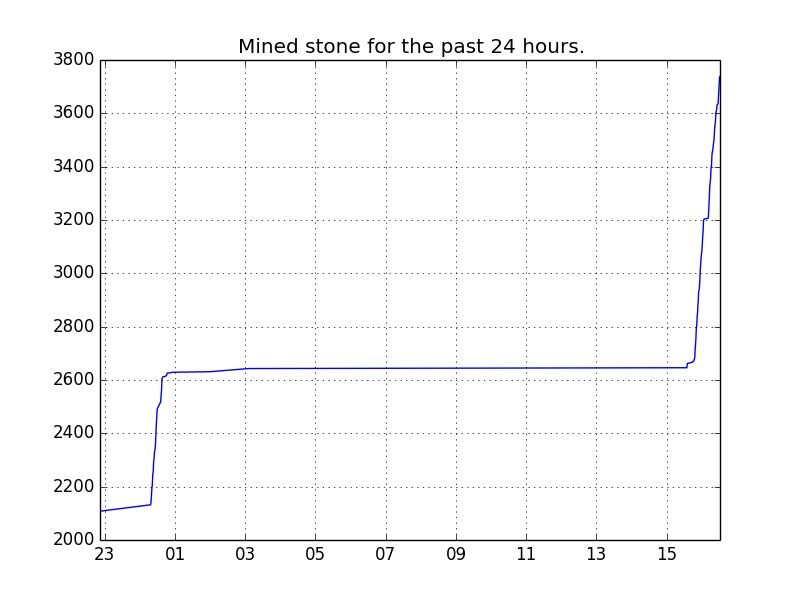
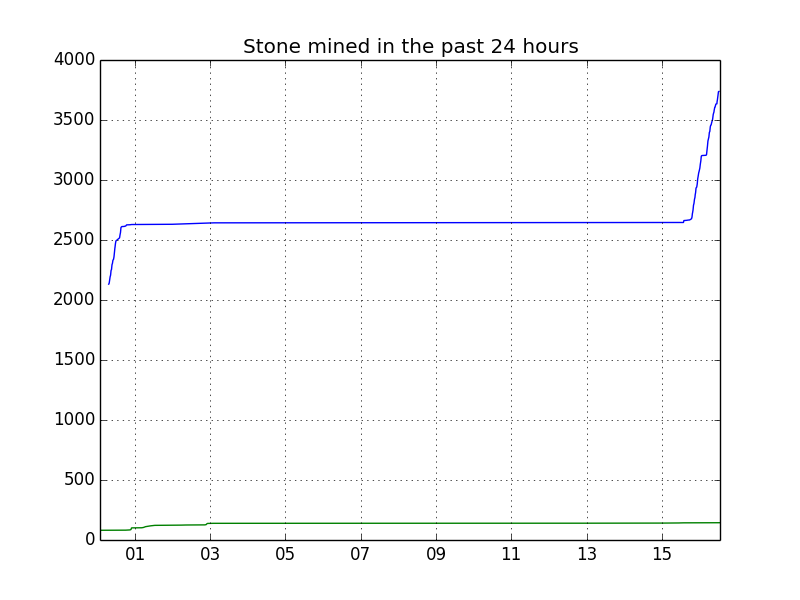
Made the graph script slightly more modular

diff --git a/contrib/postgres/graph.py b/contrib/postgres/graph.py
@@ -1,22 +1,34 @@
 #!/usr/bin/python
 
+import sys
 import psycopg2
 import matplotlib.pyplot as plt
 from matplotlib.dates import DateFormatter, MinuteLocator
-import config
+import argparse
 
-conn = psycopg2.connect(database="schoentoon")
+parser = argparse.ArgumentParser()
+parser.add_argument("-d", "--database", help="what database to connect to", type=str, required=True)
+parser.add_argument("-o", "--output", help="write to this file", type=str, required=True)
+parser.add_argument("blocks", nargs="*", help="Block ids", default=[], type=int)
+parser.add_argument("--title", type=str)
+args = parser.parse_args()
+
+conn = psycopg2.connect(database=args.database)
 cur = conn.cursor()
-cur.execute("""SELECT \"when\", mined
-               FROM minedblock
-               WHERE block = 1
-               AND \"when\" > now() - interval '1 day'""")
-times, counter = zip(*cur.fetchall())
+
+for block in args.blocks:
+  cur.execute("""SELECT \"when\", mined
+                FROM minedblock
+                WHERE block = %d
+                AND \"when\" > now() - interval '1 day'""" % (block))
+  times, counter = zip(*cur.fetchall())
+  plt.plot(times, counter)
+
 cur.close()
 conn.close()
 
-plt.plot(times, counter)
 plt.grid()
-plt.title("Mined stone for the past 24 hours.")
+if args.title:
+  plt.title(args.title)
 plt.gca().xaxis.set_major_formatter(DateFormatter('%H'))
-plt.savefig("stone.png")
+plt.savefig(args.output)
